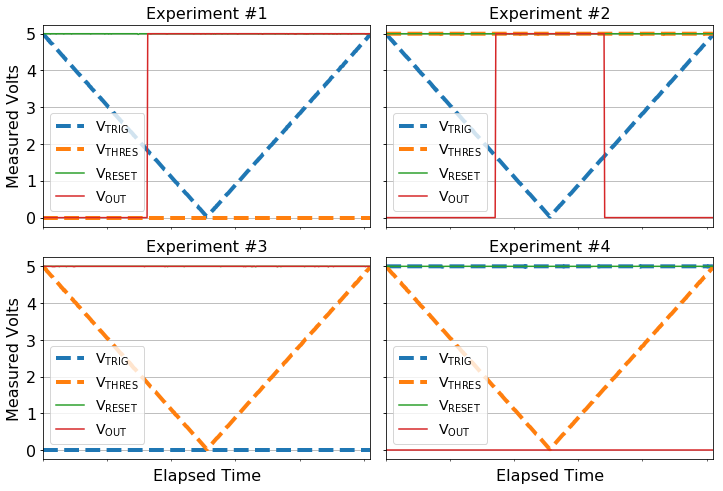
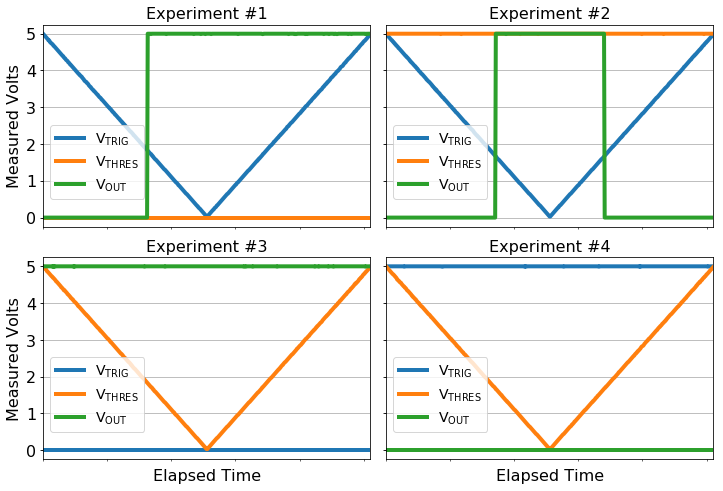
work in progress--getting there...

diff --git a/layouts/index.html b/layouts/index.html
@@ -112,6 +112,7 @@ might be of interest to people who hold similar interests.</p>
     <li><a href="electronics/digipots.html">Experimenting with digipots and ADCs</a></li>
     <li><a href="electronics/hd44780-lcd-display.html">Programming the HD44780 LCD display driver with Raspberry Pi</a></li>
     <li><a href="electronics/twsu-synth-kid.html">Understanding the TWSU Synth Kit</a></li>
+    <li><a href="electronics/555.html">Understanding the 555 Timer IC</a></li>
 </ul>
 
 <h3>Unix and Linux Howtos</h3>

diff --git a/content/electronics/555.md b/content/electronics/555.md
@@ -130,12 +130,14 @@ this, I started with TRIG=low and THRES=low, then did the following:
 
 The results from this are:
 
- TRIG | THRES | LED state
-:----:|:-----:|:---------:
- low  | low   | on
- low  | high  | on
- high | high  | off
- high | low   | off
+<div class="shortcode">
+{{< figure
+    src="tlc555-trig-thres-fwd-graph.png"
+    link="tlc555-trig-thres-fwd-graph.png"
+    alt="555 manual TRIG/THRES testing, forward direction"
+    caption="Results of going through the forward TRIG+THRES testing cycle"
+>}}
+</div>
 
 However, _reversing_ this cycle winds up giving different results.  Again
 starting with TRIG=low and THRES=low,
@@ -145,26 +147,57 @@ starting with TRIG=low and THRES=low,
 3. Change TRIG=low to TRIG=high, resulting in TRIG=high, THRES=high)
 4. Change THRES=low to THRES=high (TRIG remains low)
 
-The following table shows the results from this reversed cycle, with differences
-highlighted in **bold**:
+The following table shows the results from this reversed cycle:
 
- TRIG | THRES | LED state
-:----:|:-----:|:---------:
- low  | low   | on
- low  | high  | **off**
- high | high  | off
- high | low   | **on**
+<div class="shortcode">
+{{< figure
+    src="tlc555-trig-thres-rev-graph.png"
+    link="tlc555-trig-thres-rev-graph.png"
+    alt="555 manual TRIG/THRES testing, reverse direction"
+    caption="Results of going through the reverse TRIG+THRES testing cycle"
+>}}
+</div>
 
 From this, we know that when both TRIG and THRES are the same, OUT has a
 deterministic state; OUT is high when TRIG=THRES=low, and OUT is low when
 TRIG=THRES=high.  However, the state of OUT when TRIG != THRES depends on the
 previous state of OUT.
 
+Taking this a step further, we can use the digipot and ADC to see what these
+four transitions look like on an analog scale:
+
+<div class="shortcode">
+{{< figure
+    src="tlc555-trig-thres-both-forward.png"
+    link="tlc555-trig-thres-both-forward.png"
+    alt="Cycling through all states of TRIG and THRES, forward direction"
+    caption="Results cycling through all states of TRIG and THRES in the forward direction"
+>}}
+</div>
+
+When going through this cycle, both of OUT's transitions between high and low
+states happen at <sup>1</sup>/<sub>3</sub> V<sub>DD</sub>.  However in the
+reverse direction,
+
+<div class="shortcode">
+{{< figure
+    src="tlc555-trig-thres-both-reverse.png"
+    link="tlc555-trig-thres-both-reverse.png"
+    alt="Cycling through all states of TRIG and THRES, reverse direction"
+    caption="Results cycling through all states of TRIG and THRES in the reverse direction"
+>}}
+</div>
+
+we see the hysteresis--OUT goes low at <sup>2</sup>/<sub>3</sub> V<sub>dd</sub>,
+but it goes high at <sup>1</sup>/<sub>3</sub> V<sub>dd</sub>.  This asymmetric
+behavior is what gives rise to a neat property of the 555 timer: its ability to
+act as an astable oscillator.
+
 ### Astable Mode
 
-One last way to configure TRIG and THRES is to couple them both to our variable
-input so that we are changing the voltage to both input pins at the same time.
-The result is quite interesting:
+Configuring TRIG and THRES so that both are connected to a variable input
+voltage so that we are changing the voltage to both input pins at the same time.
+The result is the same asymmetric behavior we observed above:
 
 <div class="shortcode">
 {{< figure
@@ -175,12 +208,18 @@ The result is quite interesting:
     >}}
 </div>
 
-(needs work)
-
 This mode of operation is well-documented as the [**astable mode** of operation
-for a 555 circuit][astable mode], and you can find a lot of documentation about how this is
-used practically.  Rather than a digipot as we have used here, though, TRIG and
-THRES are plugged into a resistor-capacitor series to vary the input voltage.
+for a 555 circuit][astable mode], and you can find a lot of documentation about
+how this is used practically.
+
+Rather than a digipot as we have used here,
+though, TRIG and THRES are plugged into a resistor-capacitor series to vary
+the input voltage.  As the discharges and the voltage drops below
+<sup>1</sup>/<sub>3</sub> V<sub>dd</sub>, OUT goes high and the capacitor begins
+charging again.  This drives the input voltage up again, and once it goes above
+<sup>2</sup>/<sub>3</sub> V<sub>dd</sub>, OUT goes low again and the capacitor
+resumes discharging, perpetuating a precisely timed astable oscillation between
+high and low OUT states with a very sharp transition between the two.
 
 [bjt transistor page]: digipots.html
 [Adafruit Parts Pal]: https://www.adafruit.com/product/2975

diff --git a/content/electronics/index.md b/content/electronics/index.md
@@ -14,5 +14,6 @@ with [Raspberry Pi][].
 - [Experimenting with digipots and ADCs](digipots.html)
 - [Programming the HD44780 LCD display driver with Raspberry Pi](hd44780-lcd-display.html)
 - [Understanding the TWSU Synth Kit](twsu-synth-kid.html)
+- [Understanding the 555 Timer IC](555.html)
 
 [Raspberry Pi]: http://www.raspberrypi.org/
